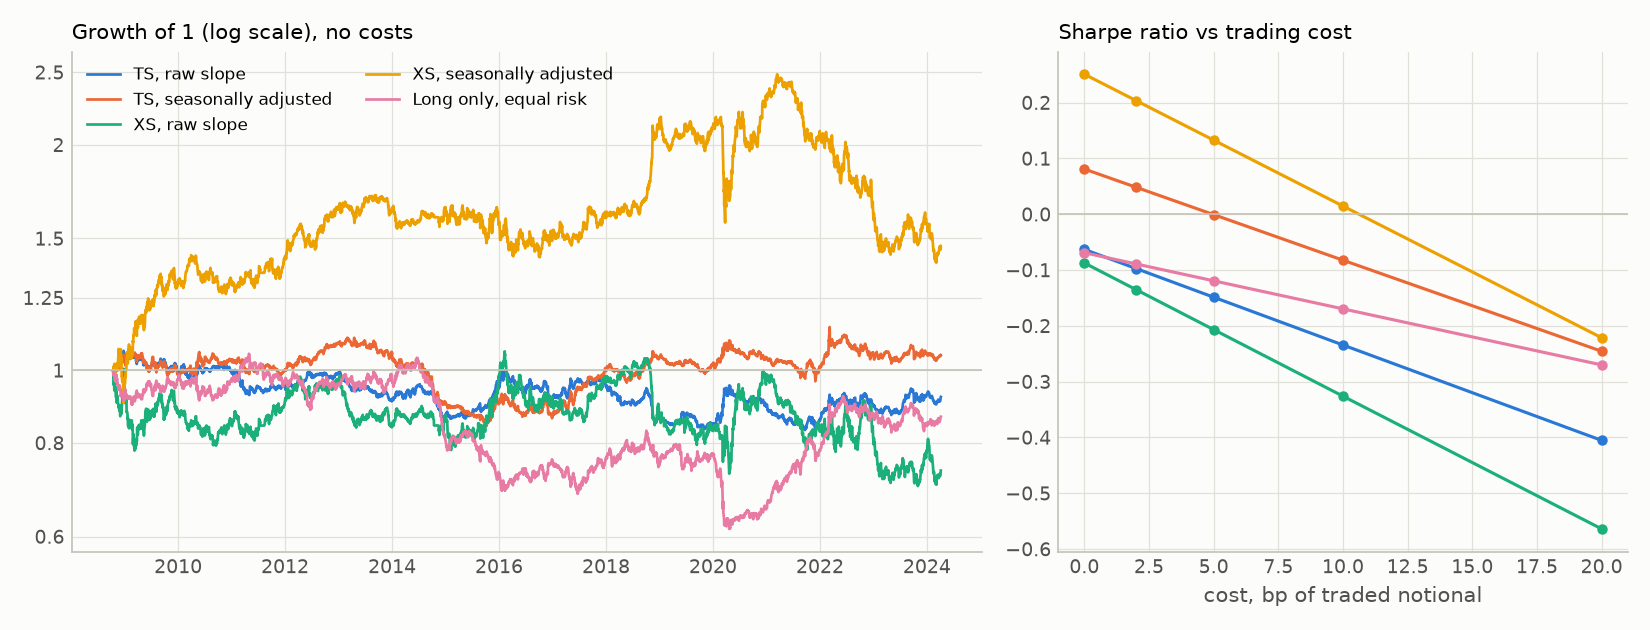
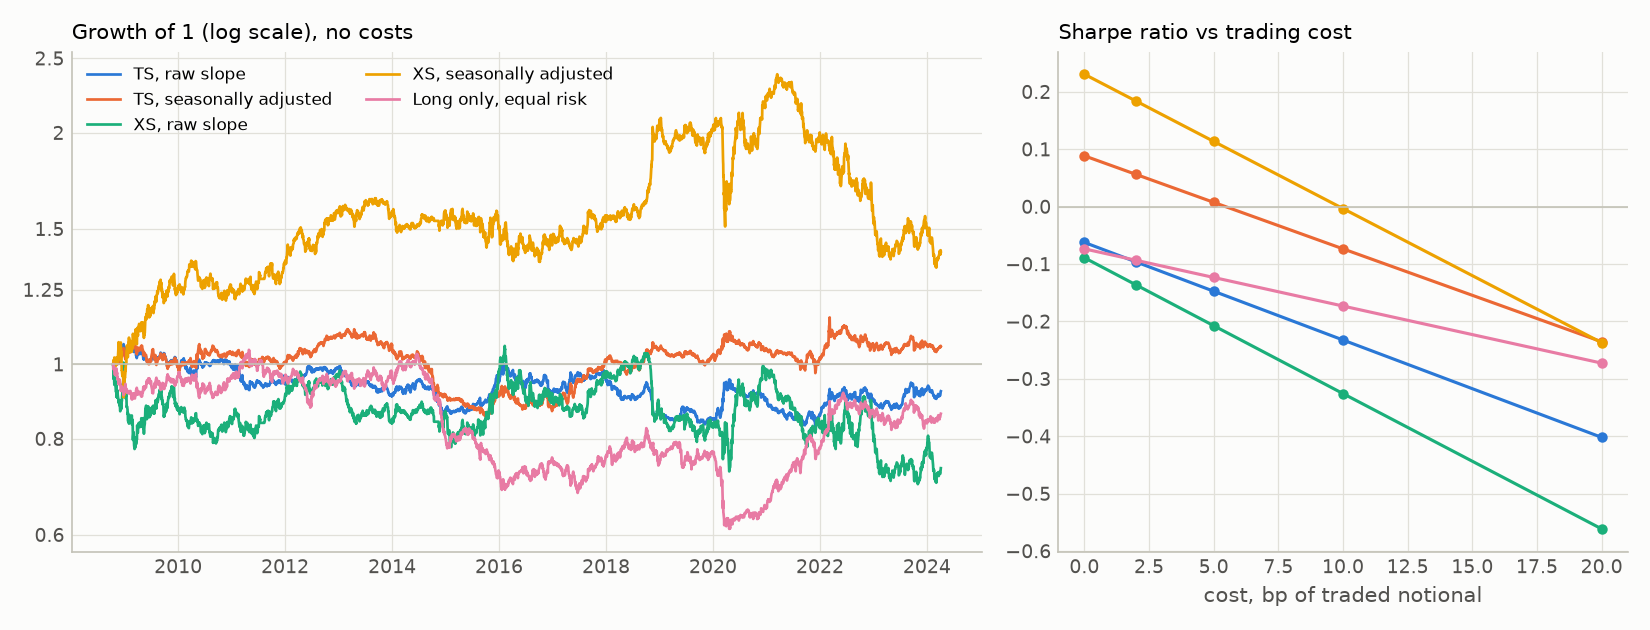
fix(stitch): slot occupant from the curve structure, returns across missing settles
slot_returns and v_slot_returns inferred the held contract and the roll from
the presence of a price: when the held contract had no settle, the row was
flagged as a roll (charged 2|w| in costs) and the return of that day and of
the next one was lost. The month in each slot now comes from the curve
structure (contract c in month m => front month m - (c - 1)); a roll is a
change of occupant, and p0 is the last settle of the held contract within
5 sessions and since it entered the slot.

Backtest window: 13 rolls that were not expiries disappear (NG 4, RB 1,
HO 8), missing returns fall from 16 to 8. Carry results regenerated: XS
seasonally adjusted Sharpe 0.25 -> 0.23 (t 0.91). The SQL equality test now
compares every row, missing returns and held months included.

Claude-Session: https://claude.ai/code/session_01AxTfAoxJu9NmjkUtuRfsmF

diff --git a/src/energycurves/data/stitch.py b/src/energycurves/data/stitch.py
@@ -39,32 +39,50 @@ def build_curve_panel(futures: pd.DataFrame) -> pd.DataFrame:
     return panel[cols].sort_values(["code", "date", "contract"], ignore_index=True)
 
 
+PRICE_LOOKBACK = 5  # trading days: oldest settle of the held contract used as p0
+
+
 def slot_returns(panel: pd.DataFrame, slot: int) -> pd.DataFrame:
     """Daily constant-contract return of a position rolled to stay in ``slot``.
 
-    Returns ``date, code, ret, held_month, rolled`` where ``held_month`` is the
-    delivery month held over ``(t−1, t]`` and ``rolled`` is True when that
-    contract left the slot on ``t`` (the position is rolled at the close of
-    ``t``). ``ret`` is NaN when the held contract has no price on ``t`` or a
-    non-positive price on ``t−1``.
+    Returns ``date, code, ret, held_month, rolled``. The slot occupant comes
+    from the curve structure, not from the presence of a price: on each day,
+    contract ``c`` in month ``m`` puts the front month at ``m − (c − 1)``, so
+    the month in ``slot`` is known even when its settle is missing.
+    ``held_month`` is the month in the slot on ``t−1``; ``rolled`` is True when
+    another month occupies the slot on ``t`` (an expiry in between).
+
+    ``ret = F_t(D) / F_s(D) − 1`` with ``s`` the last session ``≤ t−1`` where
+    ``D`` has a settle, at most ``PRICE_LOOKBACK − 1`` sessions before ``t−1``
+    and not before ``D`` entered the slot: a missing settle delays the return,
+    it does not lose it. ``ret`` is NaN when ``D`` has no settle on ``t``, no
+    usable ``F_s`` or ``F_s ≤ 0``.
     """
     out = []
     for code, grp in panel.groupby("code", sort=True):
         days = pd.DatetimeIndex(np.sort(grp["date"].unique()))
-        prev_day = pd.Series(days[:-1], index=days[1:])
-        in_slot = grp[grp["contract"] == slot].set_index("date")["delivery_month"]
-        price = grp.set_index(["date", "delivery_month"])["settle"]
-        slot_of = grp.set_index(["date", "delivery_month"])["contract"]
-        frame = pd.DataFrame({"date": days[1:], "prev": prev_day.to_numpy()})
-        frame["held_month"] = in_slot.reindex(frame["prev"]).to_numpy()
-        key_prev = pd.MultiIndex.from_arrays([frame["prev"], frame["held_month"]])
-        key_now = pd.MultiIndex.from_arrays([frame["date"], frame["held_month"]])
-        p0 = price.reindex(key_prev).to_numpy()
-        p1 = price.reindex(key_now).to_numpy()
-        valid = (p0 > 0) & np.isfinite(p1)
-        frame["ret"] = np.where(valid, p1 / np.where(p0 > 0, p0, np.nan) - 1.0, np.nan)
-        frame["rolled"] = slot_of.reindex(key_now).to_numpy() != slot
-        frame["code"] = code
+        day_no = pd.Series(np.arange(len(days)), index=days).reindex(grp["date"]).to_numpy()
+        month = grp["delivery_month"].to_numpy().astype("datetime64[M]").astype(np.int64)
+        front_of_row = pd.Series(month - (grp["contract"].to_numpy() - 1))
+        front = front_of_row.groupby(day_no).agg(["min", "max"])
+        if (front["min"] != front["max"]).any():
+            raise ValueError(f"{code}: slots disagree on the front month")
+        occupant = front["min"].to_numpy() + slot - 1  # month in the slot, every day
+        key = pd.MultiIndex.from_arrays([day_no, month])
+        price = pd.Series(grp["settle"].to_numpy(), index=key)
+        j = np.arange(len(days) - 1)  # index of t−1
+        held = occupant[:-1]
+        p1 = price.reindex(pd.MultiIndex.from_arrays([j + 1, held])).to_numpy()
+        start = np.maximum(np.searchsorted(occupant, held, side="left"), j - (PRICE_LOOKBACK - 1))
+        p0 = np.full(len(j), np.nan)
+        for lag in range(PRICE_LOOKBACK):  # most recent usable settle of the held contract
+            cand = price.reindex(pd.MultiIndex.from_arrays([j - lag, held])).to_numpy()
+            p0 = np.where(np.isnan(p0) & (j - lag >= start) & ~np.isnan(cand), cand, p0)
+        valid = (np.nan_to_num(p0, nan=0.0) > 0) & np.isfinite(p1)
+        frame = pd.DataFrame({"date": days[1:], "code": code})
+        frame["ret"] = np.where(valid, p1 / np.where(valid, p0, 1.0) - 1.0, np.nan)
+        frame["held_month"] = held.astype("datetime64[M]").astype("datetime64[ns]")
+        frame["rolled"] = occupant[1:] != held
         out.append(frame[["date", "code", "ret", "held_month", "rolled"]])
     return pd.concat(out, ignore_index=True)
 

diff --git a/tests/test_stitch.py b/tests/test_stitch.py
@@ -72,6 +72,26 @@ def test_slot2_index_equals_price_ratio_of_held_contracts() -> None:
     assert np.isclose(index["XX"].iloc[-1], expected)
 
 
+def test_missing_settle_neither_fakes_a_roll_nor_loses_the_return() -> None:
+    p = _synthetic_panel()
+    gap = p[~((p["date"] == "2020-01-07") & (p["contract"] == 2))]  # April missing on day 4
+    extra = pd.DataFrame(
+        {
+            "date": pd.to_datetime(["2020-01-08", "2020-01-08"]),
+            "contract": [1, 2],
+            "delivery_month": pd.to_datetime(["2020-03", "2020-04"]),
+            "settle": [114.0, 127.0],
+            "code": "XX",
+        }
+    )
+    rets = slot_returns(pd.concat([gap, extra], ignore_index=True), slot=2).set_index("date")
+    assert np.isnan(rets.loc["2020-01-07", "ret"])  # no April settle on day 4
+    assert not bool(rets.loc["2020-01-07", "rolled"])  # ... but no expiry either
+    assert np.isclose(rets.loc["2020-01-08", "ret"], 127 / 125 - 1)  # return over the gap
+    assert rets["held_month"].loc["2020-01-08"] == pd.Timestamp("2020-04-01")
+    assert int(rets["rolled"].sum()) == 1
+
+
 def test_naive_pct_change_would_include_the_roll_jump() -> None:
     p = _synthetic_panel()
     naive = p[p["contract"] == 2].set_index("date")["settle"].pct_change()

diff --git a/tests/test_sql.py b/tests/test_sql.py
@@ -63,13 +63,15 @@ def test_slot_returns_view_equals_python(
     con: duckdb.DuckDBPyConnection, panel: pd.DataFrame
 ) -> None:
     sql = con.execute(
-        "SELECT trade_date AS date, code, ret, rolled FROM v_slot_returns "
-        "WHERE slot = 2 AND ret IS NOT NULL"
+        "SELECT trade_date AS date, code, ret, held_month, rolled FROM v_slot_returns "
+        "WHERE slot = 2"
     ).df()
-    py = slot_returns(panel, slot=2).dropna(subset=["ret"])
+    py = slot_returns(panel, slot=2)
     merged = py.merge(sql, on=["date", "code"], suffixes=("_py", "_sql"), validate="one_to_one")
-    assert len(merged) == len(py) == len(sql)
+    assert len(merged) == len(py) == len(sql)  # every trading day, missing returns included
     np.testing.assert_allclose(merged["ret_py"], merged["ret_sql"], rtol=1e-12, atol=1e-14)
+    held_sql = pd.to_datetime(merged["held_month_sql"]).to_numpy()
+    assert (merged["held_month_py"].to_numpy() == held_sql).all()
     assert (merged["rolled_py"] == merged["rolled_sql"]).all()
 
 

diff --git a/tests/test_data_quality.py b/tests/test_data_quality.py
@@ -138,8 +138,13 @@ def test_curve_build_does_not_multiply_rows(con: duckdb.DuckDBPyConnection) -> N
     assert isinstance(raw_on_bd, int)
     assert curve == raw_on_bd - 2  # exactly the two isolated typos removed
     slot_rows = scalar(con, "SELECT count(*) FROM v_slot_returns")
-    assert isinstance(slot_rows, int) and isinstance(curve, int)
-    assert slot_rows <= curve
+    day_pairs = scalar(
+        con,
+        "SELECT count(*) - count(DISTINCT code) "
+        "FROM (SELECT DISTINCT code, trade_date FROM fact_curve)",
+    )
+    assert isinstance(slot_rows, int) and isinstance(day_pairs, int)
+    assert slot_rows == 4 * day_pairs  # one row per slot and trading day after the first
 
 
 def test_delivery_months_are_strictly_increasing_along_the_curve(

diff --git a/tests/test_regression.py b/tests/test_regression.py
@@ -67,11 +67,11 @@ def test_carry_sharpe_ratios(panel: pd.DataFrame, roll_yields: pd.DataFrame) -> 
     metrics, _, _ = bt.evaluate(inputs, start, EIA_END, config)
     sharpe = metrics.set_index("strategy")["sharpe"]
     expected = {
-        "TS-raw": -0.06293746016537974,
-        "TS-deseason": 0.08109806390254852,
-        "XS-raw": -0.08725850191478246,
-        "XS-deseason": 0.25098820487904755,
-        "LO": -0.06887471996336665,
+        "TS-raw": -0.062370173583610466,
+        "TS-deseason": 0.08847342720409776,
+        "XS-raw": -0.0890667072830886,
+        "XS-deseason": 0.23060067243598176,
+        "LO": -0.07357665429917984,
     }
     for strategy, value in expected.items():
         assert sharpe[strategy] == pytest.approx(value, rel=REL)

diff --git a/README.md b/README.md
@@ -15,7 +15,7 @@ EIA and FRED data, with a DuckDB SQL layer and every number regenerated by one s
 | Term structure | Mean front roll yield y12, 2006–2024 | CL -8.8% · NG -29.6% · RB +3.5% · HO -0.9% |
 | Term structure | Share of days in backwardation | CL 29% · NG 17% · RB 60% · HO 33% |
 | Inventories (SQL) | Correlation of curve slope y14 with the 5-year stock gap, 2010–2024 | -0.57 to -0.31 |
-| Carry | Sharpe, seasonally adjusted signal, 2008–2024 (t-stat) | XS +0.25 (t +0.99) · TS +0.08 (t +0.32) · long only -0.07 |
+| Carry | Sharpe, seasonally adjusted signal, 2008–2024 (t-stat) | XS +0.23 (t +0.91) · TS +0.09 (t +0.35) · long only -0.07 |
 | Gas storage | Intrinsic vs rolling intrinsic, 2027-04 to 2028-03 (USD/MMBtu of capacity) | 1.225 vs 1.271 ± 0.0007 (extrinsic +3.8%) |
 | Crack-spread options | Kirk − Monte Carlo: largest ATM error · largest error on the grid | 0.26% · +11.96% (3-2-1 crack, 2024-06, K = F+20) |
 <!-- END:key-results -->
@@ -161,11 +161,11 @@ whose naive returns would contain the roll yield itself.
 <!-- BEGIN:m2-table -->
 | Strategy | Return / yr | Vol / yr | Sharpe | t-stat | Max DD | Turnover / yr |
 | :--- | ---: | ---: | ---: | ---: | ---: | ---: |
-| TS, raw slope | -0.4% | 5.8% | -0.06 | -0.25 | -23% | 9.9 |
-| TS, seasonally adjusted | +0.5% | 6.0% | +0.08 | +0.32 | -24% | 9.8 |
-| XS, raw slope | -1.1% | 13.1% | -0.09 | -0.34 | -34% | 31.2 |
-| XS, seasonally adjusted | +3.4% | 13.4% | +0.25 | +0.99 | -44% | 31.5 |
-| Long only, equal risk | -0.6% | 8.3% | -0.07 | -0.27 | -42% | 8.4 |
+| TS, raw slope | -0.4% | 5.8% | -0.06 | -0.24 | -23% | 9.8 |
+| TS, seasonally adjusted | +0.5% | 6.0% | +0.09 | +0.35 | -24% | 9.7 |
+| XS, raw slope | -1.2% | 13.1% | -0.09 | -0.35 | -34% | 30.9 |
+| XS, seasonally adjusted | +3.1% | 13.4% | +0.23 | +0.91 | -44% | 31.3 |
+| Long only, equal risk | -0.6% | 8.3% | -0.07 | -0.29 | -42% | 8.3 |
 
 Daily excess returns, 2008-10-14 to 2024-04-05 (15.4 years), no trading costs.
 <!-- END:m2-table -->
@@ -175,10 +175,10 @@ Sharpe ratio net of costs:
 <!-- BEGIN:m2-costs -->
 | Sharpe at cost (bp of notional) → | 0 | 2 | 5 | 10 | 20 |
 | :--- | ---: | ---: | ---: | ---: | ---: |
-| TS, raw slope | -0.06 | -0.10 | -0.15 | -0.23 | -0.41 |
-| TS, seasonally adjusted | +0.08 | +0.05 | 0.00 | -0.08 | -0.25 |
+| TS, raw slope | -0.06 | -0.10 | -0.15 | -0.23 | -0.40 |
+| TS, seasonally adjusted | +0.09 | +0.06 | +0.01 | -0.07 | -0.24 |
 | XS, raw slope | -0.09 | -0.14 | -0.21 | -0.33 | -0.56 |
-| XS, seasonally adjusted | +0.25 | +0.20 | +0.13 | +0.01 | -0.22 |
+| XS, seasonally adjusted | +0.23 | +0.18 | +0.11 | 0.00 | -0.24 |
 | Long only, equal risk | -0.07 | -0.09 | -0.12 | -0.17 | -0.27 |
 <!-- END:m2-costs -->
 
@@ -187,12 +187,12 @@ Robustness of the seasonally adjusted strategies (one choice changed at a time):
 <!-- BEGIN:m2-robustness -->
 | Variant (seasonally adjusted signal) | TS Sharpe | XS Sharpe |
 | :--- | ---: | ---: |
-| default (day 10, span 60) | +0.08 | +0.25 |
-| rebalance day 5 | +0.09 | +0.43 |
-| rebalance day 15 | +0.26 | +0.16 |
-| vol span 20 | +0.13 | +0.25 |
-| vol span 120 | +0.07 | +0.26 |
-| full monthly mean removed | +0.07 | -0.13 |
+| default (day 10, span 60) | +0.09 | +0.23 |
+| rebalance day 5 | +0.09 | +0.41 |
+| rebalance day 15 | +0.26 | +0.14 |
+| vol span 20 | +0.14 | +0.23 |
+| vol span 120 | +0.08 | +0.24 |
+| full monthly mean removed | +0.08 | -0.13 |
 <!-- END:m2-robustness -->
 
 With three highly correlated oil contracts and one gas contract, the universe holds about two
